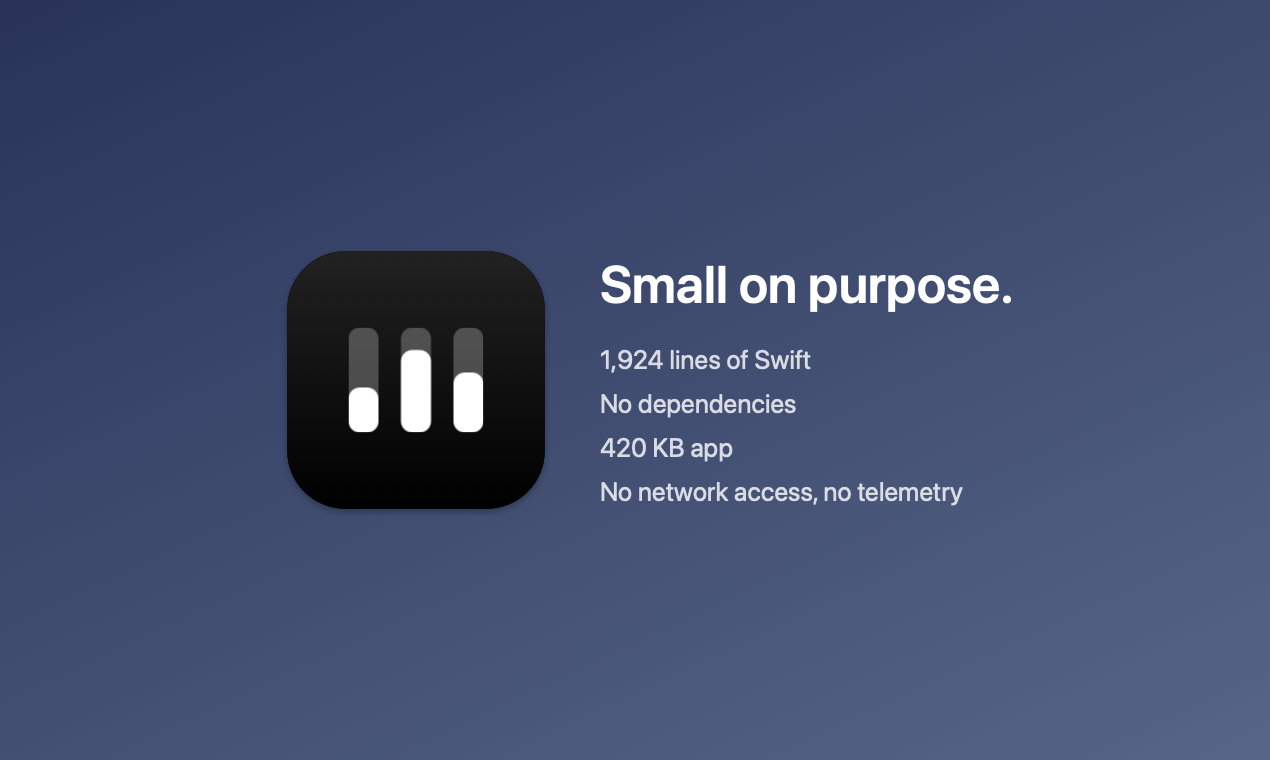
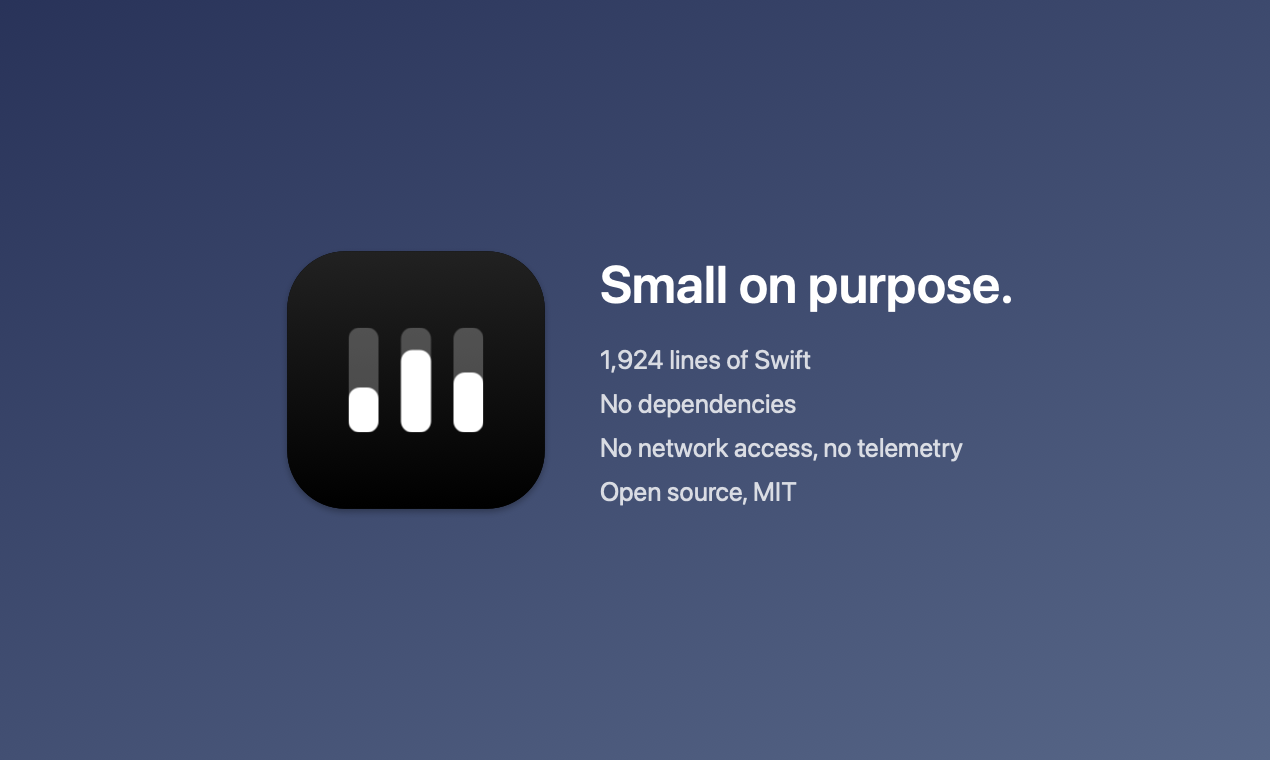
Draw the menu bar indicator at the canvas scale and state the license on the facts slide
NSImageView's tinting rasterizes at 1x when cached into a bitmap on
macOS 27, which blurred the indicator on the launch slide. The app-size
fact went stale with the icon and the universal build.

Changed region(s): [[0.4606, 0.6355, 0.7677, 0.6658], [0.4606, 0.575, 0.7677, 0.6053]]

diff --git a/docs/render.swift b/docs/render.swift
@@ -36,6 +36,22 @@ func stack(_ lines: [(text: String, font: NSFont, color: NSColor, gap: CGFloat)]
     }
 }
 
+// Draws a template image white at the canvas's own scale; NSImageView's tinting
+// rasterizes at 1x when cached into a bitmap.
+final class TintedImageView: NSView {
+    var image: NSImage?
+    override func draw(_ dirtyRect: NSRect) {
+        guard let image, let context = NSGraphicsContext.current?.cgContext else { return }
+        let rect = NSRect(x: (bounds.width - image.size.width) / 2, y: (bounds.height - image.size.height) / 2,
+                          width: image.size.width, height: image.size.height)
+        context.beginTransparencyLayer(auxiliaryInfo: nil)
+        image.draw(in: rect)
+        context.setBlendMode(.sourceIn)
+        NSColor.white.setFill()
+        context.fill(rect)
+        context.endTransparencyLayer()
+    }
+}
 final class PreviewCanvas: NSView {
     var housing: NSRect?
     var menuBar = true
@@ -136,9 +152,8 @@ func canvas(_ scene: Scene) -> PreviewCanvas {
         view.indicator = indicator
         canvas.addSubview(view)
     } else {
-        let view = NSImageView(frame: NSRect(x: scene.anchor.midX - 29, y: scene.barBottom + 5, width: 58, height: 22))
+        let view = TintedImageView(frame: NSRect(x: scene.anchor.midX - 29, y: scene.barBottom + 5, width: 58, height: 22))
         view.image = indicator
-        view.contentTintColor = .white
         canvas.addSubview(view)
     }
     return canvas
@@ -338,9 +353,8 @@ hero.captions = stack(titled("tinyStats", "System stats beside your MacBook's no
                       x: slideSize.width / 2, midY: 318, centered: true)
 
 let facts = plainSlide()
-// 420 KB: `./build.sh && du -sh tinyStats.app`; update it with the app.
 let factLines = ["\(swiftLines.formatted(.number.locale(Locale(identifier: "en_US")))) lines of Swift",
-                 "No dependencies", "420 KB app", "No network access, no telemetry"]
+                 "No dependencies", "No network access, no telemetry", "Open source, MIT"]
 let factText = titled("Small on purpose.") + factLines.enumerated().map { ($0.element, subline, quiet, $0.offset == 0 ? 30 : 14) }
 let iconSide: CGFloat = 320, textWidth = factText.map { ($0.text as NSString).size(withAttributes: [.font: $0.font]).width }.max()!
 let iconX = ((slideSize.width - iconSide - 24 - textWidth) / 2).rounded()
